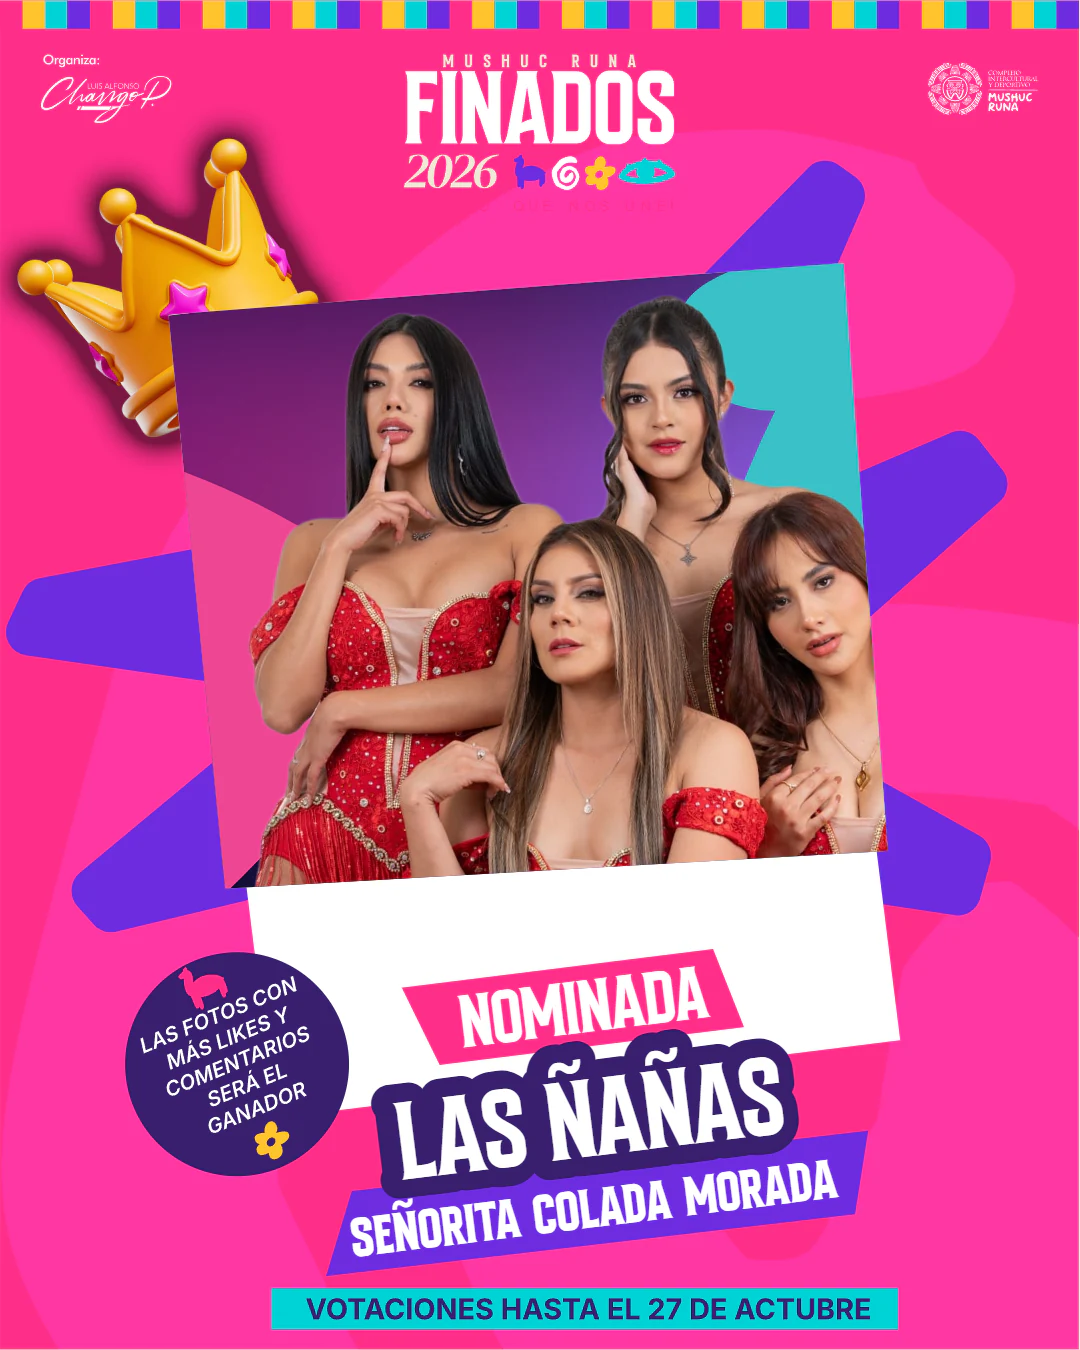
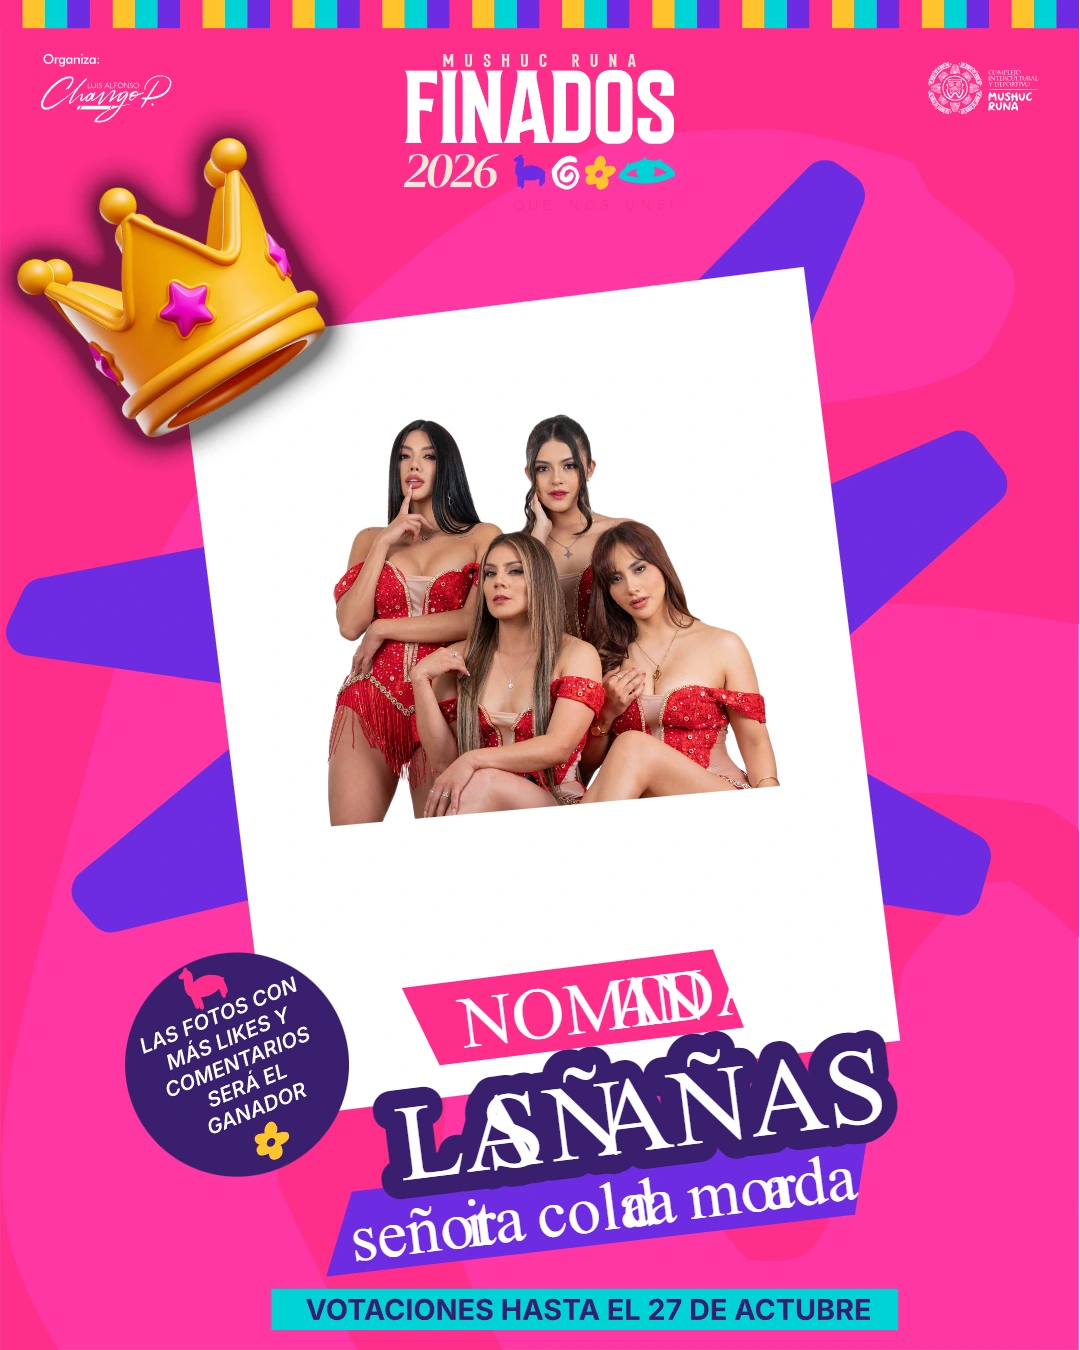
Corregir arte de Las Ñañas y renovar auspiciantes

diff --git a/website/src/finados/dignities-election.css b/website/src/finados/dignities-election.css
@@ -174,7 +174,7 @@
 }
 
 .dignity-ballot__header h3 {
-  margin: 0;
+  margin: clamp(1rem, 1.8vw, 1.45rem) 0 0;
   font: 400 clamp(3.6rem, 7.5vw, 7.4rem)/.88 "Anton", "Arial Narrow", sans-serif;
   text-transform: uppercase;
 }

diff --git a/vault/11_eventos/2026_feria-finados/10_tecnologia-datos/2026-09-22_correccion-las-nanas-cache-auspiciantes-web_v01.md b/vault/11_eventos/2026_feria-finados/10_tecnologia-datos/2026-09-22_correccion-las-nanas-cache-auspiciantes-web_v01.md
@@ -1,0 +1,34 @@
+---
+titulo: "Corrección de Las Ñañas y renovación de auspiciantes web"
+responsable: "tecnología/diseño"
+estado: listo_para_publicar
+ultima_actualizacion: 2026-09-22
+fuente: "Solicitud de Alex y SVG oficial reenviado el 22 de septiembre de 2026"
+confidencialidad: interno
+tags: [feria-finados-2026, tecnologia, web, dignidades, auspiciantes]
+---
+
+# Corrección de Las Ñañas y renovación de auspiciantes web
+
+Relacionado: [[2026-09-22_eleccion-dignidades-actualizacion-auspiciantes-web_v01|Elección de dignidades 2026 y auspiciantes web actualizados]].
+
+## Alcance
+
+Alex reportó tres problemas en la sección de elección de dignidades de `/finados/`: la foto de Las Ñañas debía mostrarse sobre fondo blanco y sin invadir las letras del arte, la virgulilla de “Señorita” interfería con el texto superior y los auspiciantes seguían viéndose desactualizados. Reenvió el SVG maestro de auspiciantes para volver a tomarlo como fuente.
+
+## Implementación
+
+- El arte de Las Ñañas conserva la plantilla oficial y el recorte transparente oficial de las cuatro integrantes que ya estaba incluido en los activos Finados. La fotografía se recompuso dentro del marco blanco, sin alterar rostros y sin cubrir el bloque inferior del nombre.
+- El título “Señorita Colada Morada” recibió un margen adaptable respecto del antetítulo “Elige la próxima dignidad”, evitando que la virgulilla de la `Ñ` lo invada en escritorio y móvil.
[2 lines of base64/hex data omitted]
+
+## Validación previa
+
+- `npm run check` completo en WSL/Linux: 166 pruebas Node, 21 suites PHP y 10 pruebas de integración; build de 152 archivos, 40 HTML y 1.343 referencias válidas.
+- QA visual real con Edge en 1440 × 1000 y 390 × 844: imagen 1080 × 1350 cargada, fondo blanco visible, nombre despejado, separación positiva de 23,19 px en escritorio y 16 px en móvil, y ningún desbordamiento horizontal.
+- No se modificaron backend, base de datos, migraciones, DNS, formularios, registros de personas, Google Sheets ni la página histórica de Dignidades 2025.
+
+## Publicación
+
+Pendiente de integrar en `main`, publicar el frontend y verificar los hashes en HTTPS.
